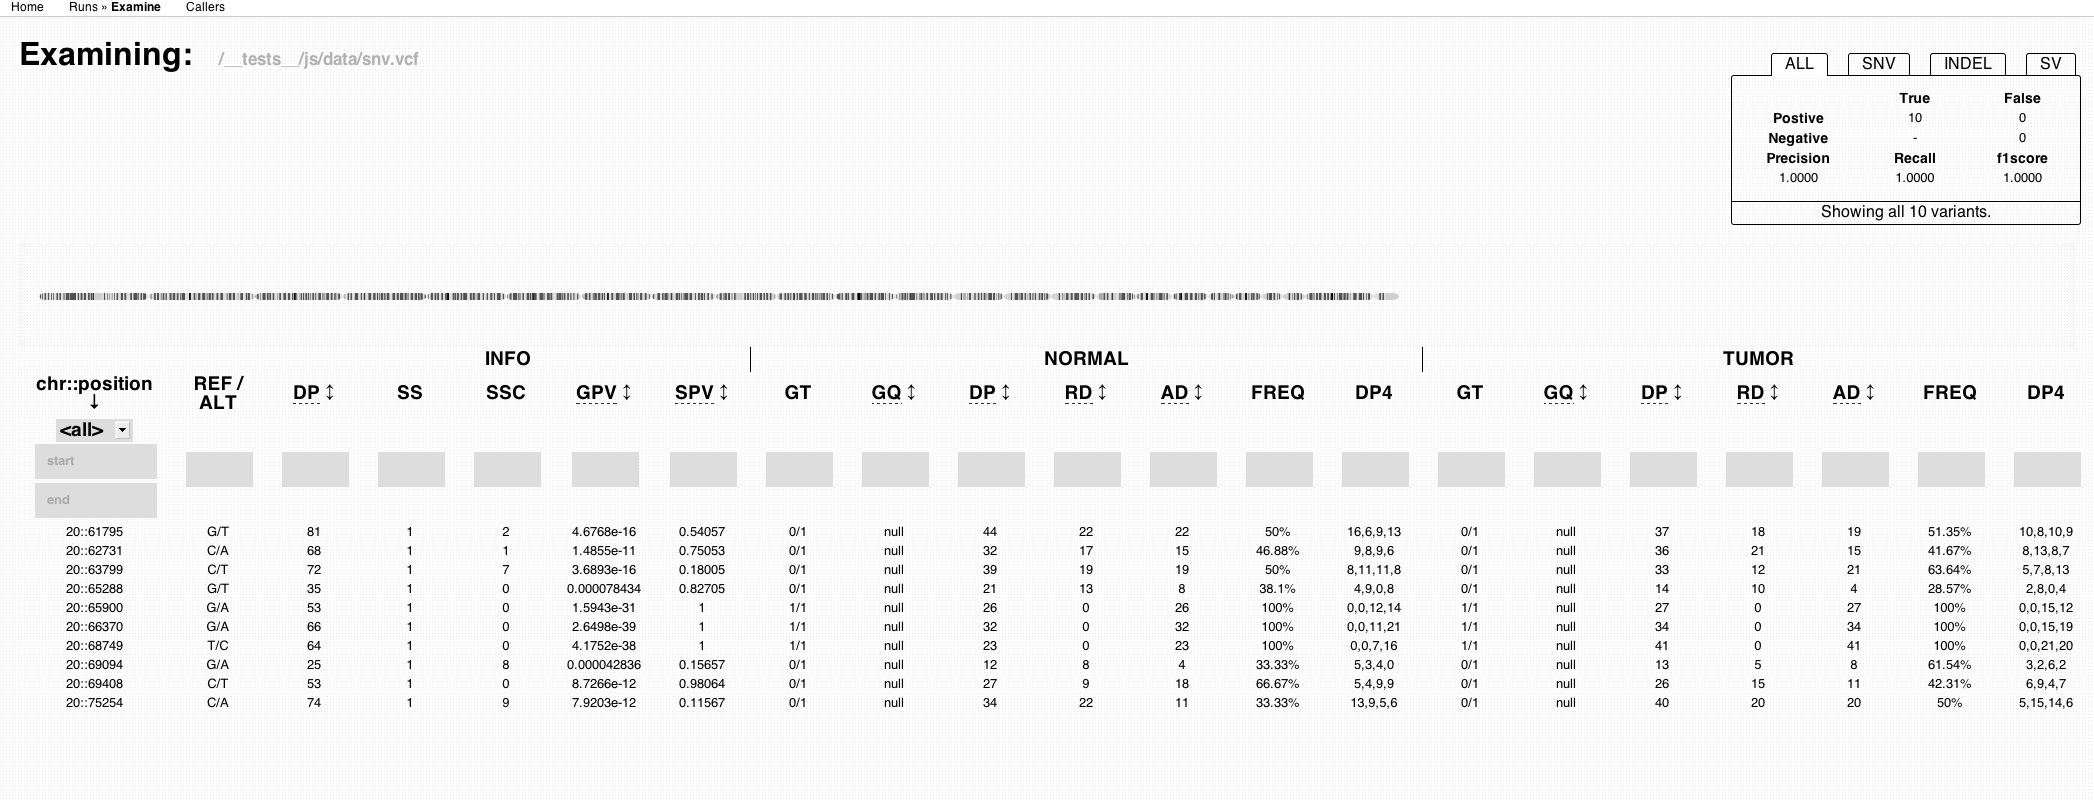
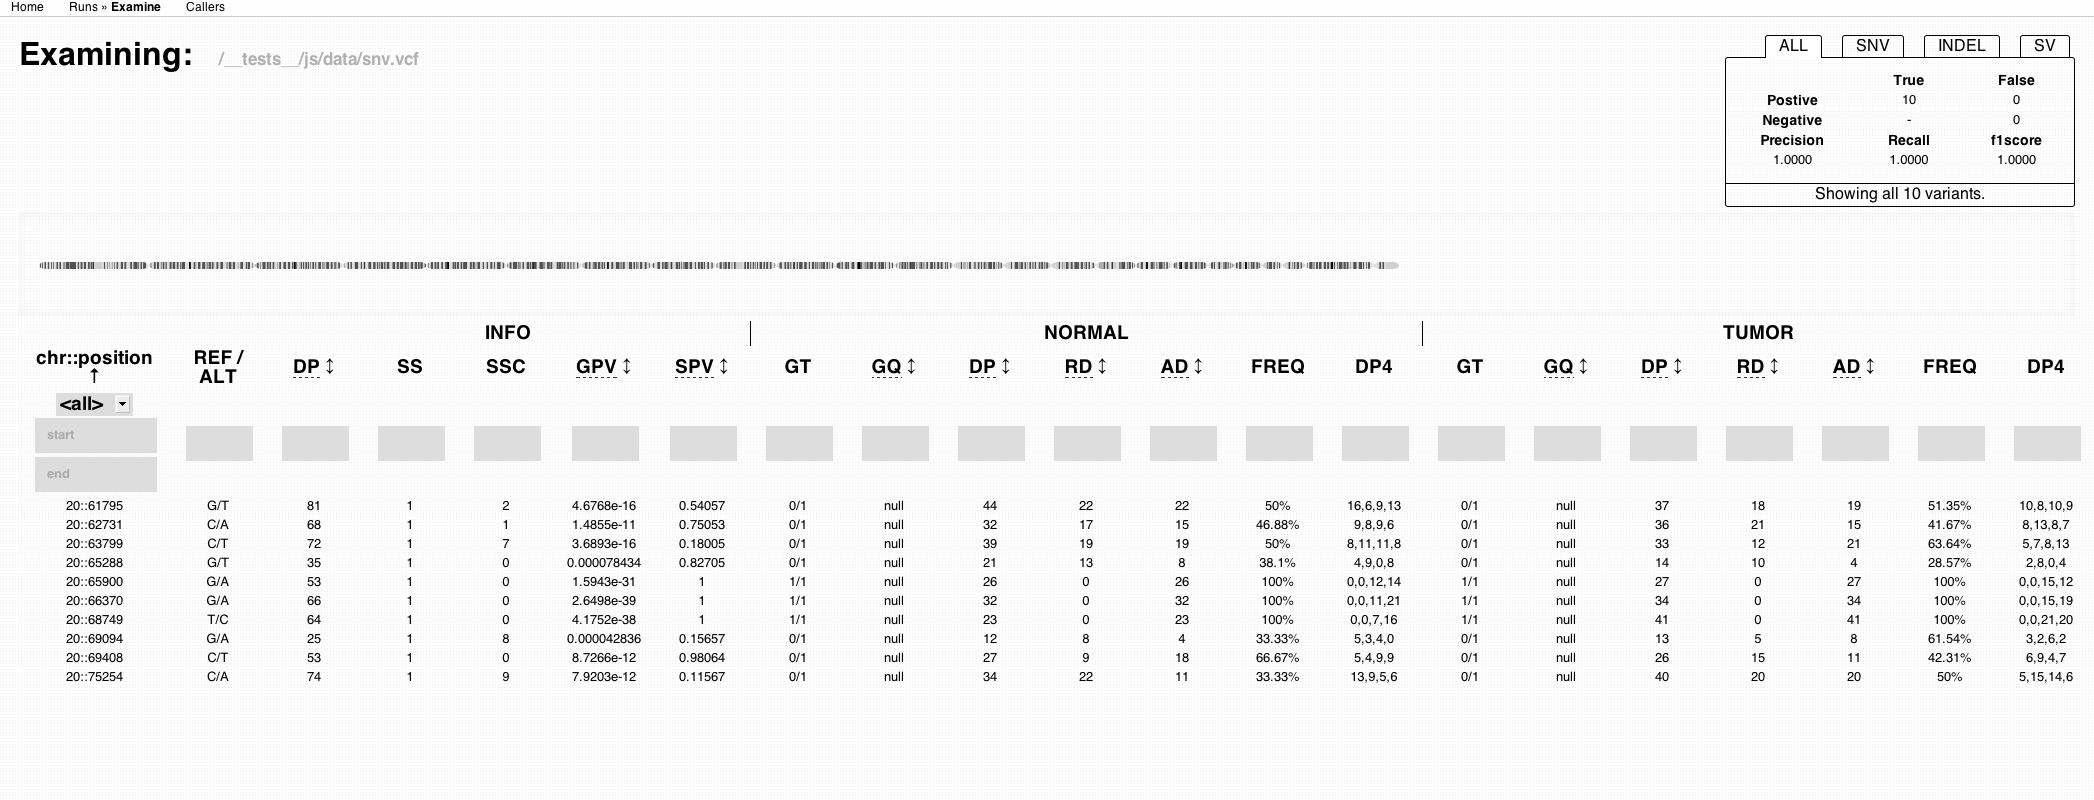
Float the stats table for better layout

diff --git a/cycledash/static/js/examine/components/ExaminePage.js b/cycledash/static/js/examine/components/ExaminePage.js
@@ -5,6 +5,7 @@ var _ = require('underscore'),
     React = require('react'),
     idiogrammatik = require('idiogrammatik.js'),
     types = require('./types'),
+
     AttributeCharts = require('./AttributeCharts'),
     BioDalliance = require('./BioDalliance'),
     StatsSummary = require('./StatsSummary'),
@@ -76,17 +77,19 @@ var ExaminePage = React.createClass({
   render: function() {
     return (
         <div className="examine-page">
-          <h1>Examining: <small>{this.props.vcfPath}</small></h1>
-          <StatsSummary hasLoaded={this.state.hasLoadedVcfs}
-                        variantType={this.state.variantType}
-                        handleVariantTypeChange={this.handleVariantTypeChange}
-                        records={this.state.records}
-                        truthRecords={this.state.truthRecords}
-                        totalRecords={this.state.totalRecords} />
-          <Widgets.Loading hasLoaded={this.state.hasLoadedVcfs}
-                           files={[this.props.vcfPath, this.props.truthVcfPath]} />
-          <AttributeCharts records={this.state.records}
-                           selectedColumns={this.state.selectedColumns} />
+          <div className="top-material">
+            <StatsSummary hasLoaded={this.state.hasLoadedVcfs}
+                          variantType={this.state.variantType}
+                          handleVariantTypeChange={this.handleVariantTypeChange}
+                          records={this.state.records}
+                          truthRecords={this.state.truthRecords}
+                          totalRecords={this.state.totalRecords} />
+            <h1>Examining: <small>{this.props.vcfPath}</small></h1>
+            <Widgets.Loading hasLoaded={this.state.hasLoadedVcfs}
+                             files={[this.props.vcfPath, this.props.truthVcfPath]} />
+            <AttributeCharts records={this.state.records}
+                             selectedColumns={this.state.selectedColumns} />
+          </div>
           <Widgets.Karyogram data={this.props.karyogramData}
                              karyogram={this.props.karyogram}
                              position={this.state.range}

diff --git a/cycledash/static/css/examine.css b/cycledash/static/css/examine.css
@@ -8,11 +8,14 @@ body {
     background: #ffffff url("/static/img/subtle-dots.png") repeat right top;
 }
 
+.top-material {
+  overflow: hidden;  /* expand to include floats */
+}
+
 /* Karyogram */
 .karyogram {
-    margin-top: 171px;  /* enough space for the global stats table */
-                        /* TODO: deactivate this if AttrCharts are shown. */
     box-shadow: inset 0 0 20px #F0F0F0;
+    margin: 5px 0;
 }
 
 /* VCFTable */
@@ -175,10 +178,7 @@ text {
 /* StatsSummary */
 #stats-container {
     width: 350px;
-    height: 190px;
-    position: absolute;
-    top: 37px;
-    right: 13px;
+    float: right;
 }
 #stats-container .variant-type-tabs li {
     border-radius: 3px 3px 0 0;
